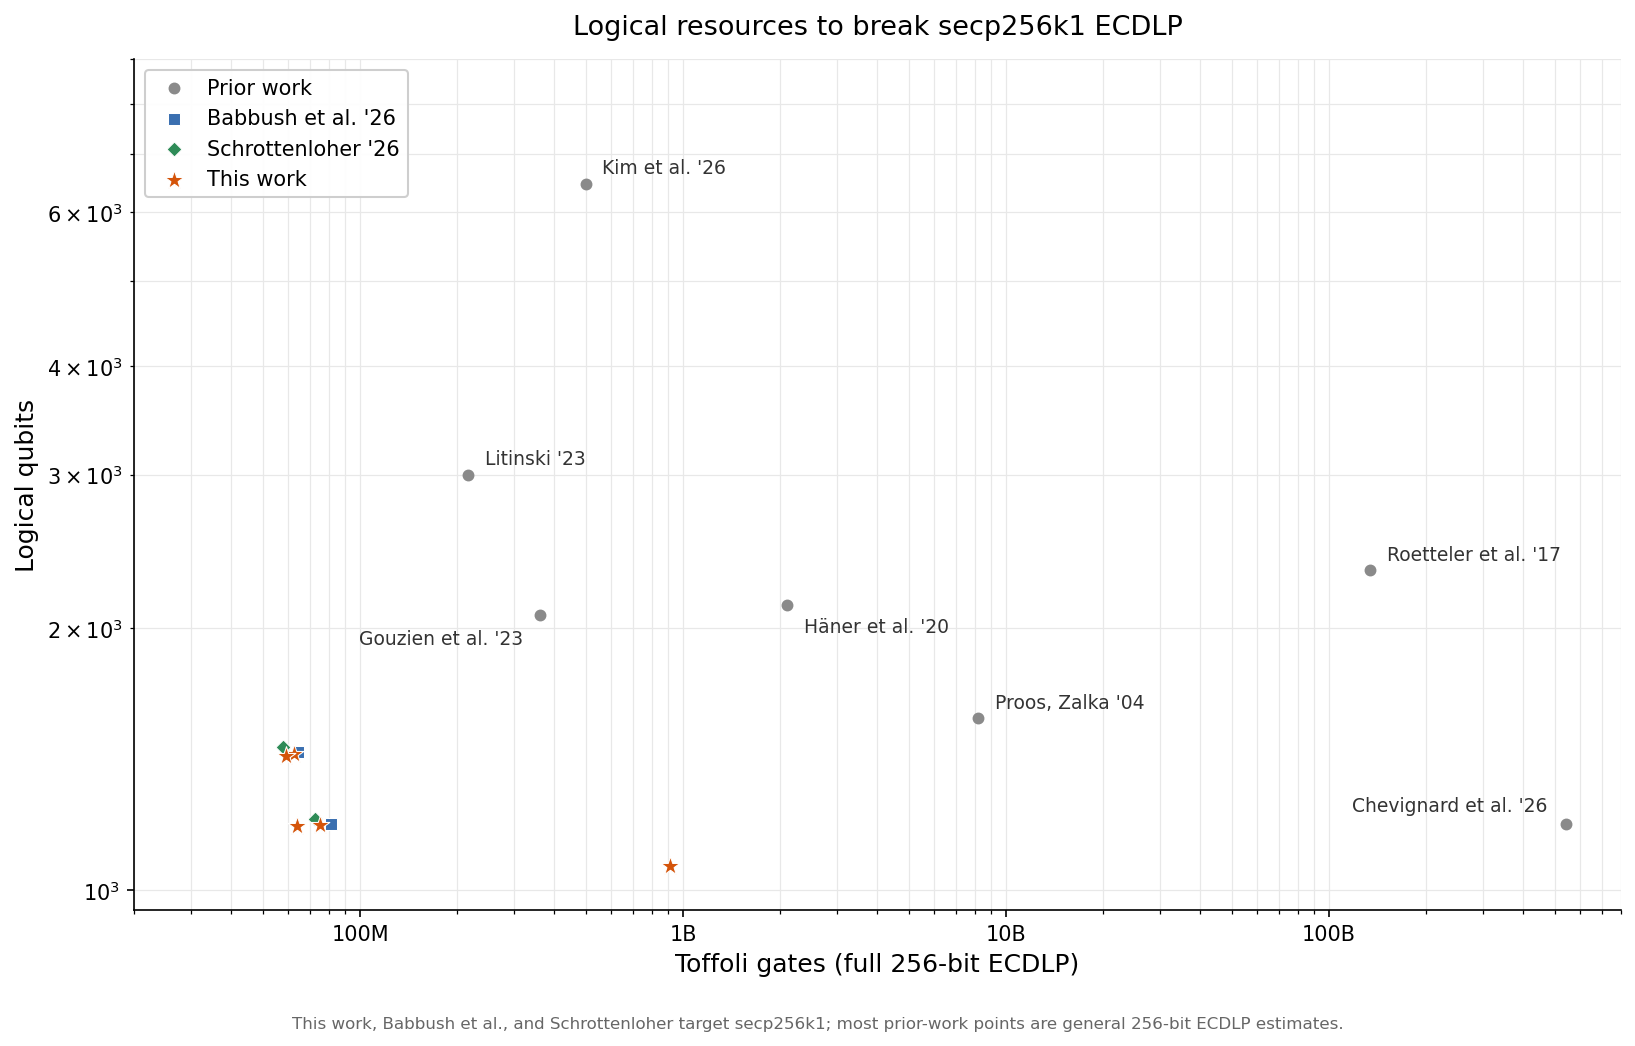
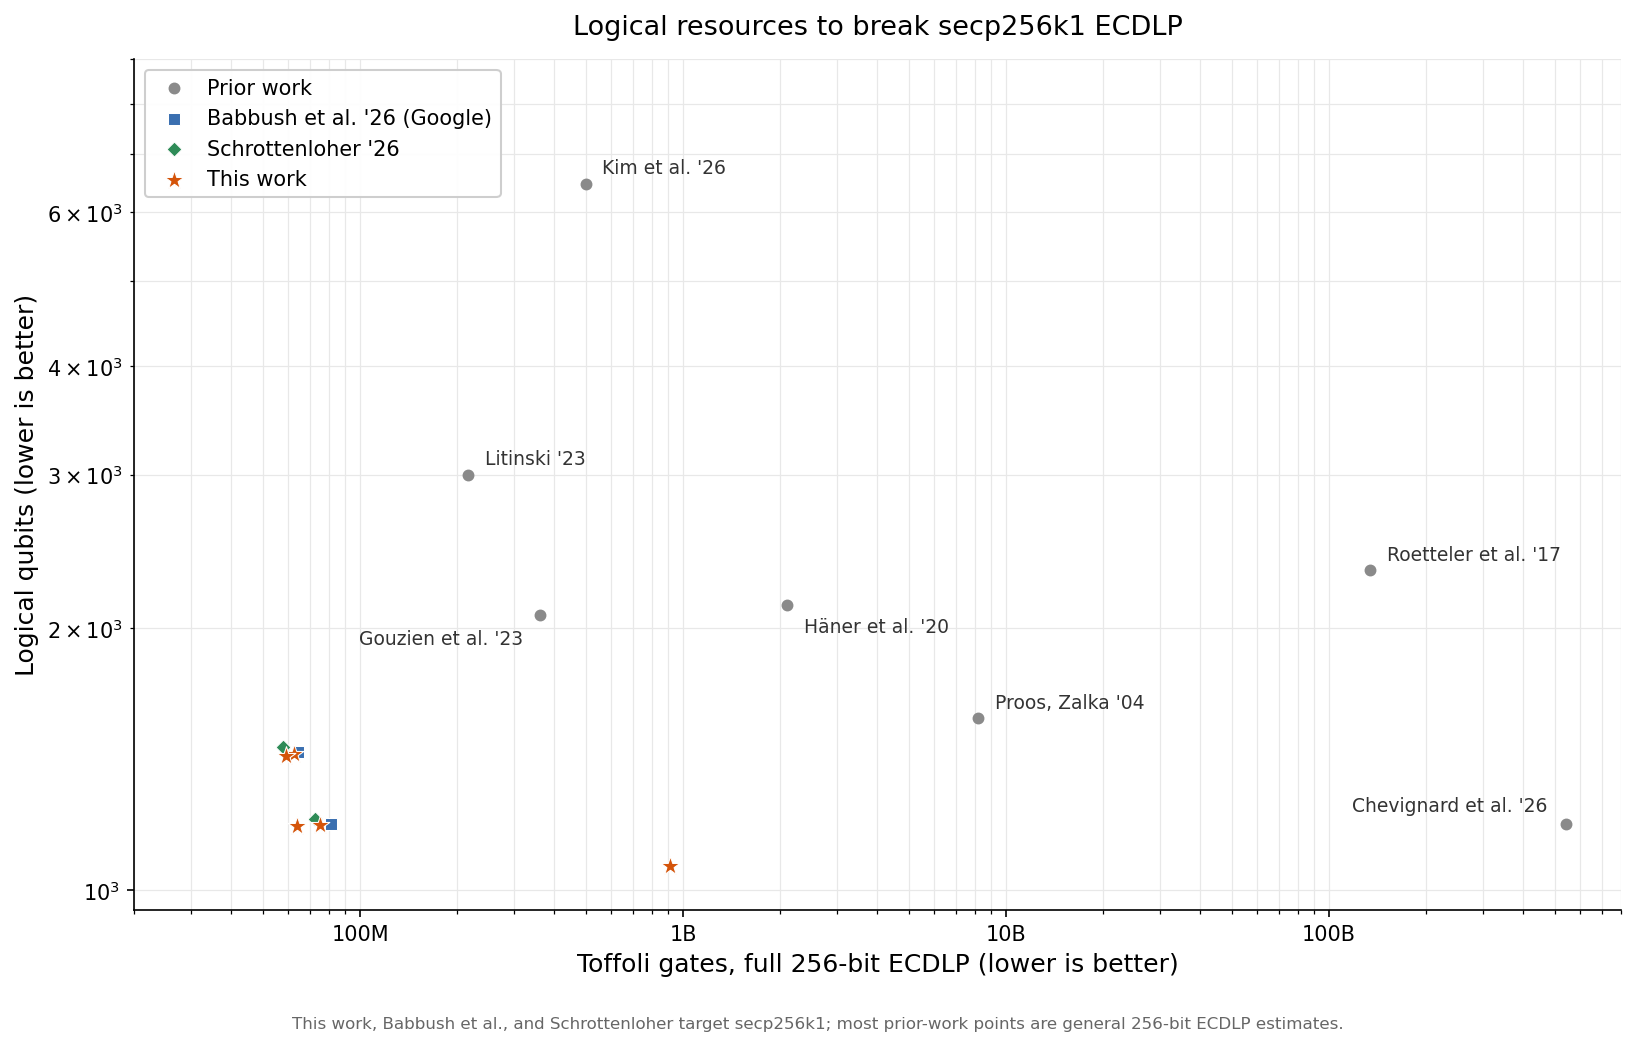
plot: add "(lower is better)" to both axis labels; mark Babbush as Google
Both axis labels now read "... (lower is better)" so the orientation is
unambiguous to readers unfamiliar with the metric, and the Babbush et al.
'26 legend entry is labelled "(Google)" since most readers won't connect
the author to the lab. Re-rendered render/01..03.

Changed region(s): [[0.3743, 0.8872, 0.7174, 0.9484], [0.0, 0.3059, 0.0312, 0.6424], [0.2495, 0.0918, 0.3119, 0.1224]]

diff --git a/plot.py b/plot.py
@@ -127,8 +127,8 @@ def render(path, title, *, logscale, xlim, ylim, label_ours, star_offsets=None,
     ax.set_ylim(ylo, yhi)
     ax.grid(True, which="both", color="#e8e8e8", linewidth=0.6, zorder=0)
     ax.set_axisbelow(True)
-    ax.set_xlabel("Toffoli gates (full 256-bit ECDLP)", fontsize=12)
-    ax.set_ylabel("Logical qubits", fontsize=12)
+    ax.set_xlabel("Toffoli gates, full 256-bit ECDLP (lower is better)", fontsize=12)
+    ax.set_ylabel("Logical qubits (lower is better)", fontsize=12)
     ax.set_title(title, fontsize=13, pad=12)
     if logscale:
         ax.xaxis.set_major_formatter(ticker.FuncFormatter(gate_formatter))
@@ -161,7 +161,7 @@ def render(path, title, *, logscale, xlim, ylim, label_ours, star_offsets=None,
                    s=size, color=color, marker=marker, zorder=6, label=label,
                    edgecolors="white", linewidths=0.5)
 
-    plot_group(GOOGLE, BLUE, "s", "Babbush et al. '26", 30)
+    plot_group(GOOGLE, BLUE, "s", "Babbush et al. '26 (Google)", 30)
     plot_group(SCHROTTENLOHER, GREEN, "D", "Schrottenloher '26", 26)
     plot_group(OURS, ORANGE, "*", "This work", 90)
 
